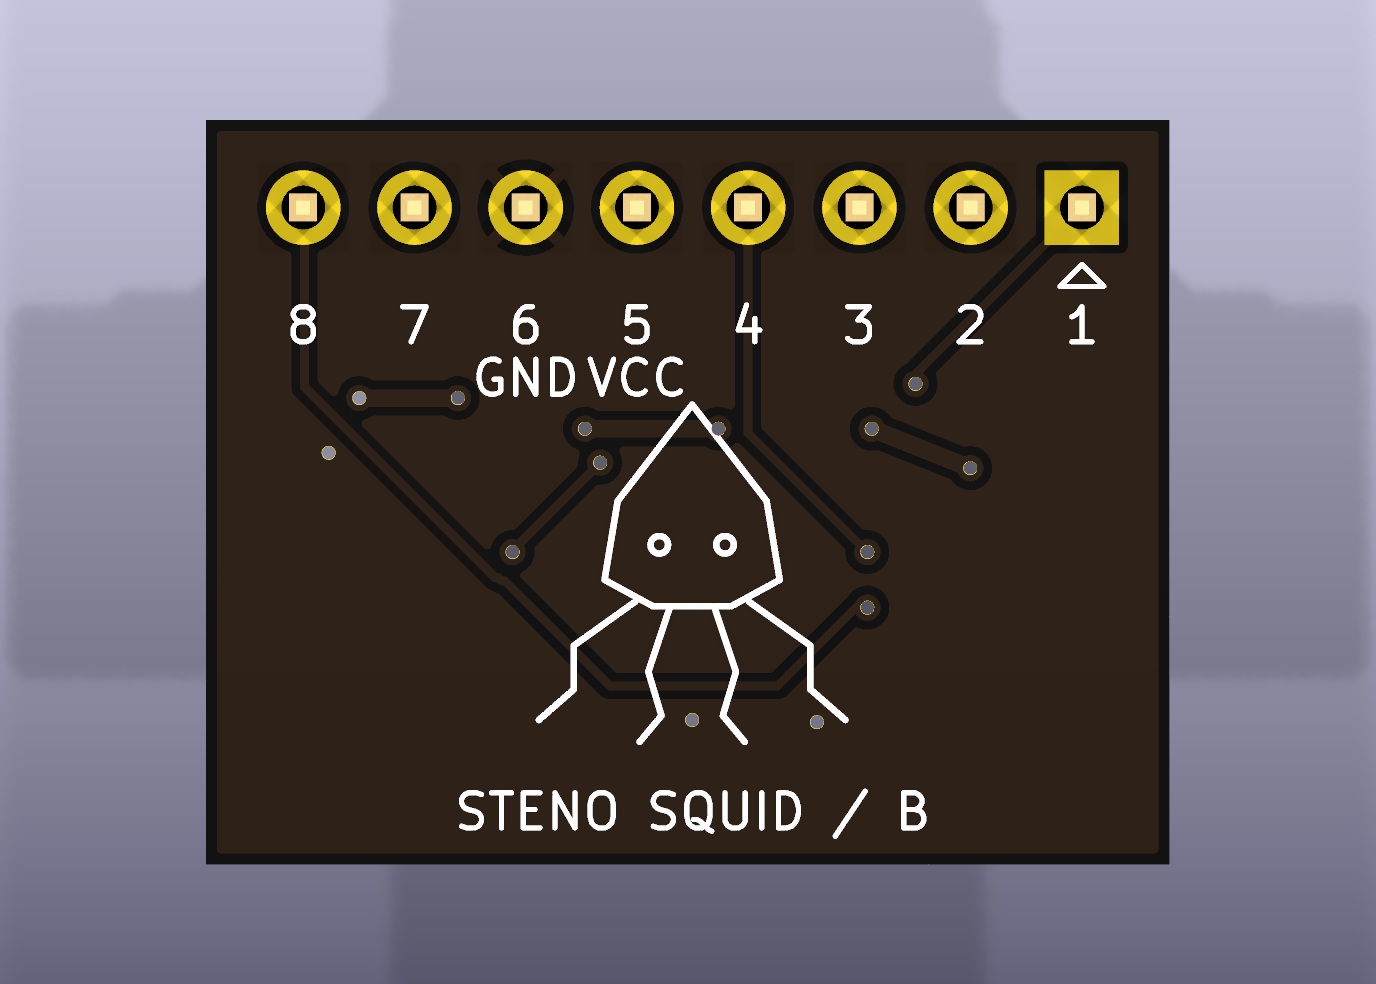
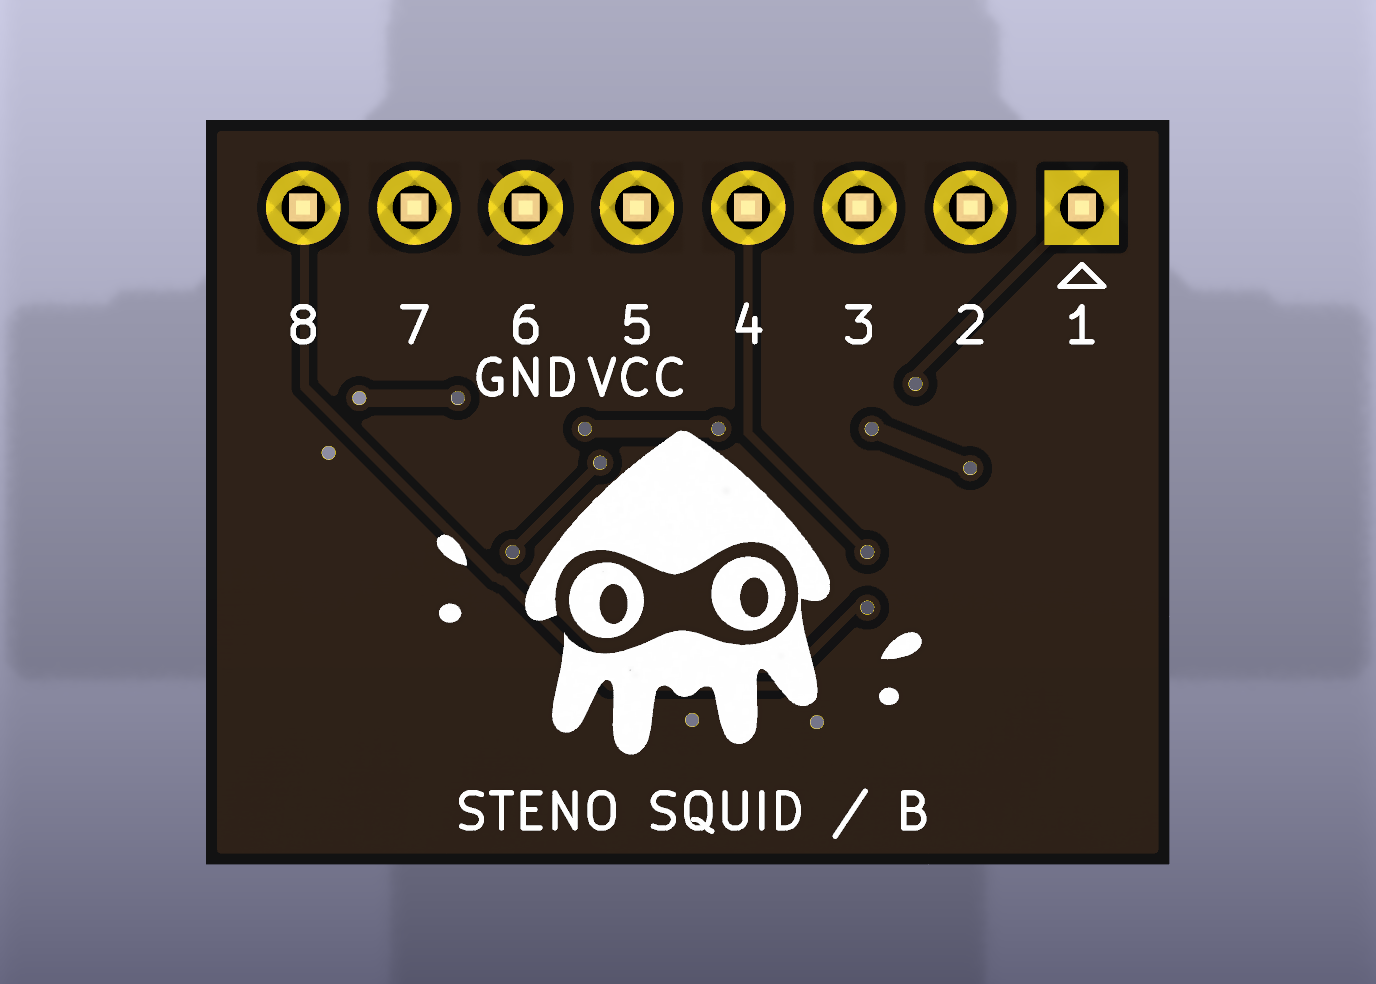
Draw an Inkling squid for the Draft B silkscreen

diff --git a/README.md b/README.md
@@ -68,6 +68,6 @@ The nice!view drawing confirms its 2.54 mm header pitch, and Boardsource documen
 
 The Draft B review’s grounding, power routing and firmware documentation items are complete. The host mating face and P0.31 rail measurements remain open before ordering.
 
-Draft A under draft-1 preserves the SOIC version and its original mapping. Draft 0 is the initial electrical proposal. Draft B is the active WSON design. The native board currently has the squid on the back, pending final orientation. Artwork studies are in [artwork](artwork). Independently controlled RGB needs another control path and remains future work.
+Draft A under draft-1 preserves the SOIC version and its original mapping. Draft 0 is the initial electrical proposal. Draft B is the active WSON design. Draft B’s back silkscreen features a hand-drawn Inkling squid with ink droplets. The final artwork face depends on the host mounting orientation. [Back preview](draft-2/previews/back.png) · [Silkscreen vector](artwork/inkling-silkscreen.svg) Independently controlled RGB needs another control path and remains future work.
 
 Fabrication release follows host fit, power and assembly review. Source credits and the KiCad library exception are in [ATTRIBUTION.md](ATTRIBUTION.md) and [LICENSES](LICENSES). A redistribution license for the original design has yet to be selected.

diff --git a/ATTRIBUTION.md b/ATTRIBUTION.md
@@ -3,3 +3,5 @@
 Steno Squid is an independent community hardware accessory. The project references Boardsource Wireless Corne expansion documentation, Adafruit product 5634 and its example circuit, Winbond flash specifications, and nice!view dimensions from nice!keyboards. Source URLs and reviewed revisions are in references/sources.json.
 
 Generic circuit symbols were authored for this project and earlier electrical studies. Standard KiCad footprints and 3D models retain their upstream license and library exception. See LICENSES/kicad-footprints-LICENSE.md. The original design has no selected redistribution license yet.
+
+The Draft B back silkscreen is a hand-drawn fan illustration of an Inkling in squid form from Nintendo’s Splatoon. [Nintendo character reference](https://splatoon.nintendo.com/en/world/)
